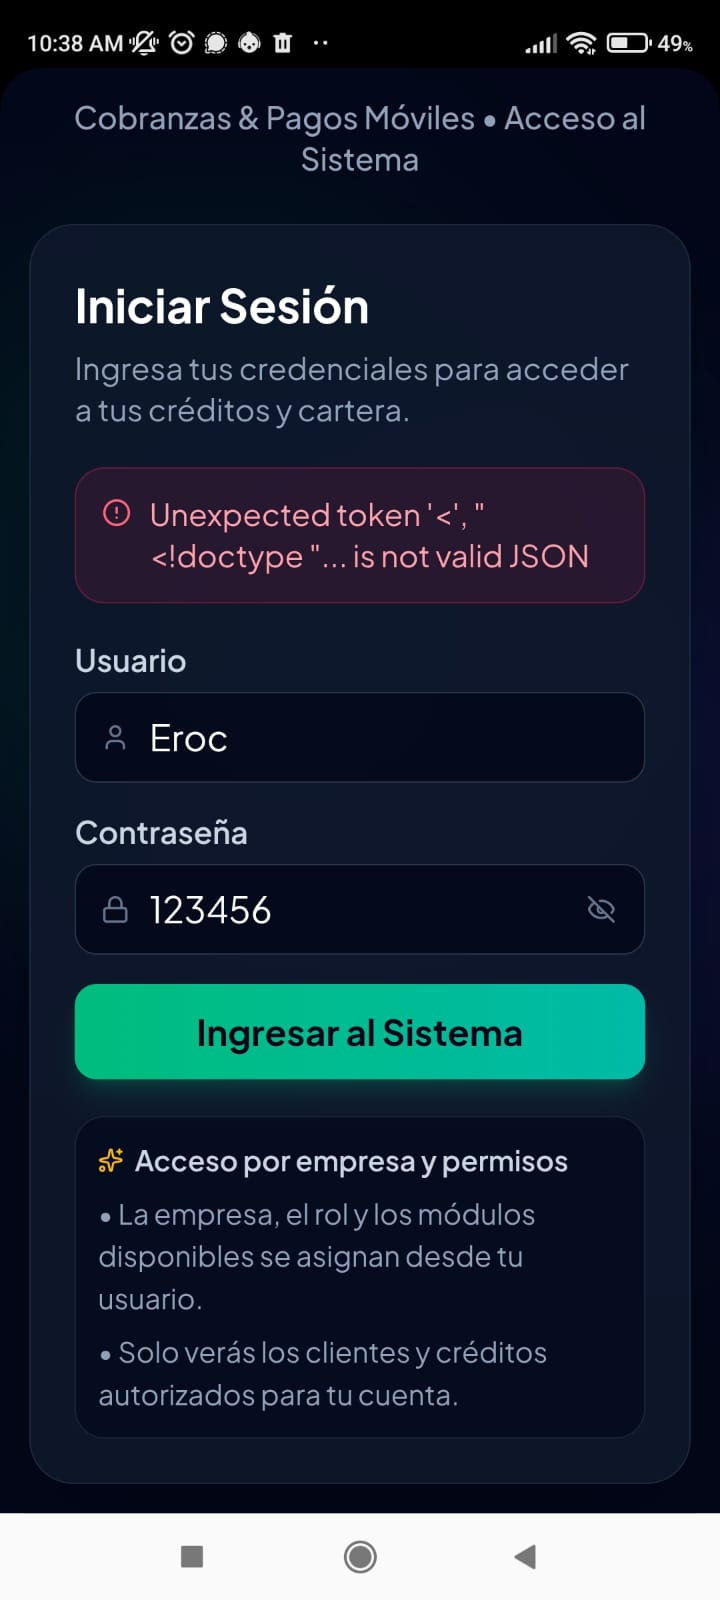
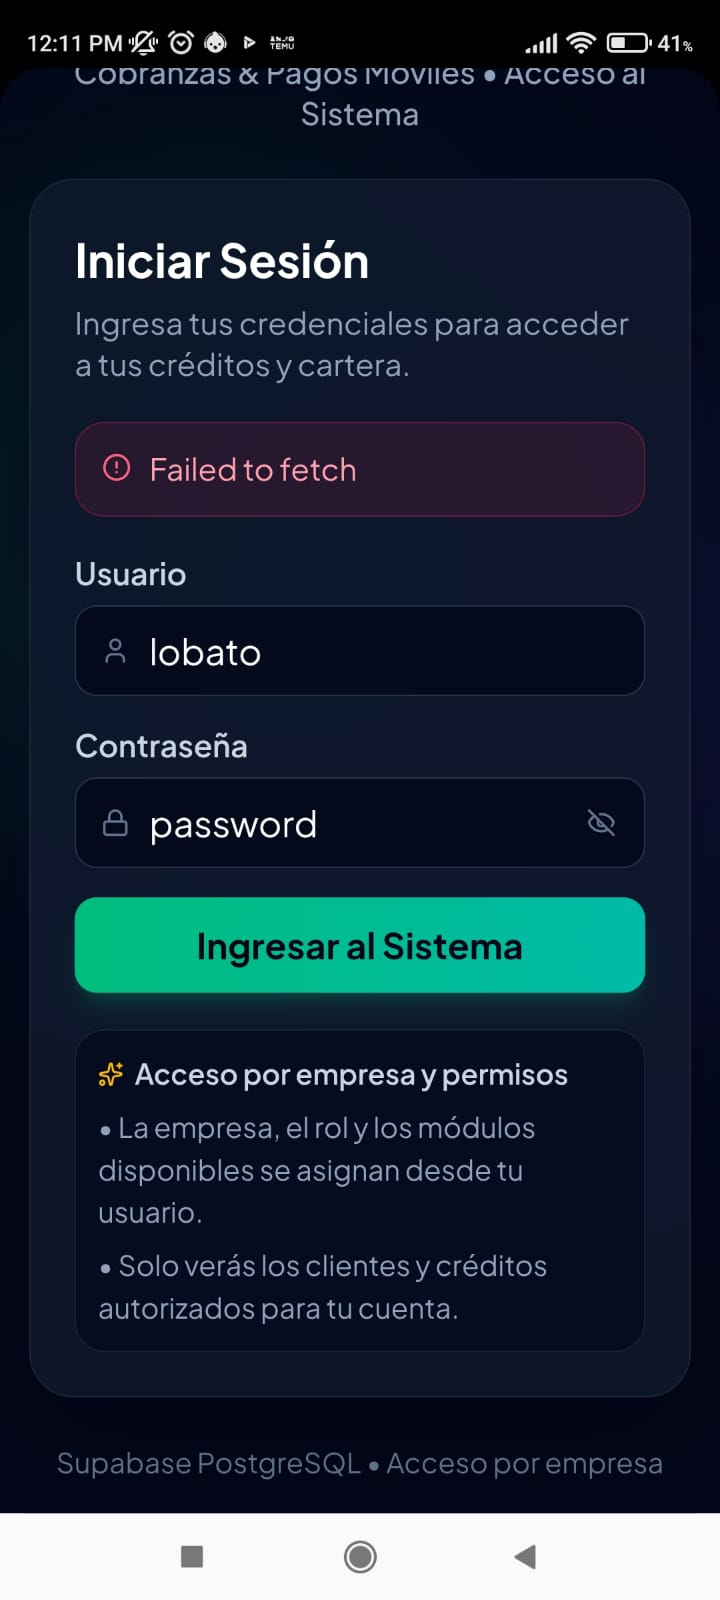
fix: health check publico para Render, soporte cleartext en Android y script de build

Changed region(s): [[0.0917, 0.125, 0.9167, 0.9375], [0.0611, 0.0, 0.8861, 0.125], [0.9167, 0.0, 0.9472, 0.0312]]

diff --git a/server/auth.ts b/server/auth.ts
@@ -76,14 +76,9 @@ export function isCompanyAdmin(auth: AuthContext): boolean {
   return /admin/i.test(auth.roleName);
 }
 
-export async function authenticateRequest(req: Request, res: Response, next: NextFunction): Promise<void> {
-  const authorization = req.header('authorization') || '';
-  const token = authorization.startsWith('Bearer ') ? authorization.slice(7).trim() : '';
-  const claims = token ? readSessionToken(token) : null;
-  if (!claims) {
-    res.status(401).json({ success: false, error: 'Sesión inválida o vencida. Inicia sesión nuevamente.' });
-    return;
-  }
+async function loadAuthContext(token: string): Promise<AuthContext | null> {
+  const claims = readSessionToken(token);
+  if (!claims) return null;
 
   let connection: DatabaseConnection | undefined;
   try {
@@ -102,10 +97,7 @@ export async function authenticateRequest(req: Request, res: Response, next: Nex
       [claims.userId, claims.companyId]
     );
     const user = rows[0];
-    if (!user) {
-      res.status(401).json({ success: false, error: 'La cuenta o empresa está inactiva. Inicia sesión nuevamente.' });
-      return;
-    }
+    if (!user) return null;
 
     let permissions: unknown = user.permisos_modulos;
     if (typeof permissions === 'string') {
@@ -116,7 +108,7 @@ export async function authenticateRequest(req: Request, res: Response, next: Nex
       }
     }
 
-    req.auth = {
+    return {
       userId: Number(user.id),
       companyId: Number(user.empresa_id),
       roleId: Number(user.rol_id),
@@ -126,10 +118,46 @@ export async function authenticateRequest(req: Request, res: Response, next: Nex
         ? permissions.filter((permission): permission is string => typeof permission === 'string')
         : [],
     };
-    next();
-  } catch (error) {
-    next(error);
   } finally {
     connection?.release();
   }
+}
+
+export async function authenticateRequest(req: Request, res: Response, next: NextFunction): Promise<void> {
+  const authorization = req.header('authorization') || '';
+  const token = authorization.startsWith('Bearer ') ? authorization.slice(7).trim() : '';
+  if (!token) {
+    res.status(401).json({ success: false, error: 'Sesión inválida o vencida. Inicia sesión nuevamente.' });
+    return;
+  }
+
+  try {
+    const auth = await loadAuthContext(token);
+    if (!auth) {
+      res.status(401).json({ success: false, error: 'La cuenta o empresa está inactiva o la sesión venció. Inicia sesión nuevamente.' });
+      return;
+    }
+    req.auth = auth;
+    next();
+  } catch (error) {
+    next(error);
+  }
+}
+
+export async function optionalAuthenticateRequest(req: Request, _res: Response, next: NextFunction): Promise<void> {
+  const authorization = req.header('authorization') || '';
+  const token = authorization.startsWith('Bearer ') ? authorization.slice(7).trim() : '';
+  if (!token) {
+    return next();
+  }
+
+  try {
+    const auth = await loadAuthContext(token);
+    if (auth) {
+      req.auth = auth;
+    }
+  } catch {
+    // Si hay error de red o base de datos temporal, continuar como no autenticado
+  }
+  next();
 }

diff --git a/server/routes.ts b/server/routes.ts
@@ -2,7 +2,7 @@ import { Router } from 'express';
 import { pool, testDbConnection, RowDataPacket } from './db';
 import type { DatabaseConnection } from './db';
 import bcrypt from 'bcryptjs';
-import { authenticateRequest, createSessionToken, hasPermission, isCompanyAdmin } from './auth';
+import { authenticateRequest, optionalAuthenticateRequest, createSessionToken, hasPermission, isCompanyAdmin } from './auth';
 
 export const apiRouter = Router();
 
@@ -109,10 +109,8 @@ apiRouter.post('/login', async (req, res) => {
   }
 });
 
-apiRouter.use(authenticateRequest);
-
-// 1.2 Estado de conexión con Supabase PostgreSQL
-apiRouter.get('/status', async (req, res) => {
+// 1.2 Estado de conexión con Supabase PostgreSQL (Healthcheck para Render / Monitor de Conexión)
+apiRouter.get('/status', optionalAuthenticateRequest, async (req, res) => {
   try {
     const companyId = req.auth && isCompanyAdmin(req.auth) ? req.auth.companyId : undefined;
     const status = await testDbConnection(companyId);
@@ -126,6 +124,8 @@ apiRouter.get('/status', async (req, res) => {
     });
   }
 });
+
+apiRouter.use(authenticateRequest);
 
 // 1.2 Listado de Usuarios (para filtros y asignación)
 apiRouter.get('/usuarios', async (req, res) => {
